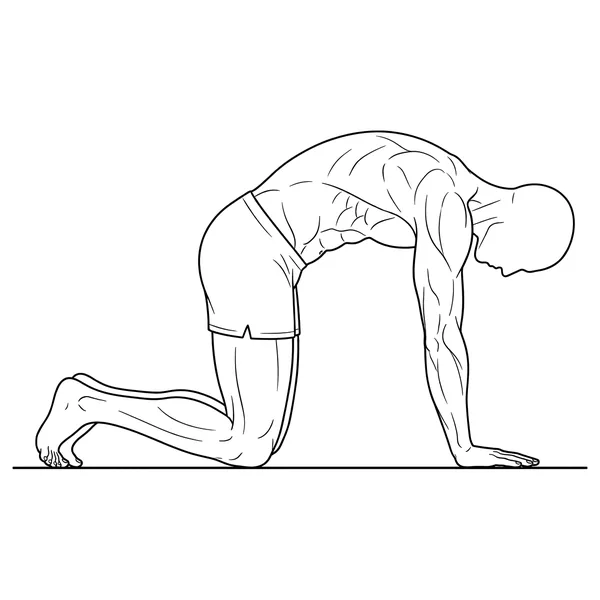
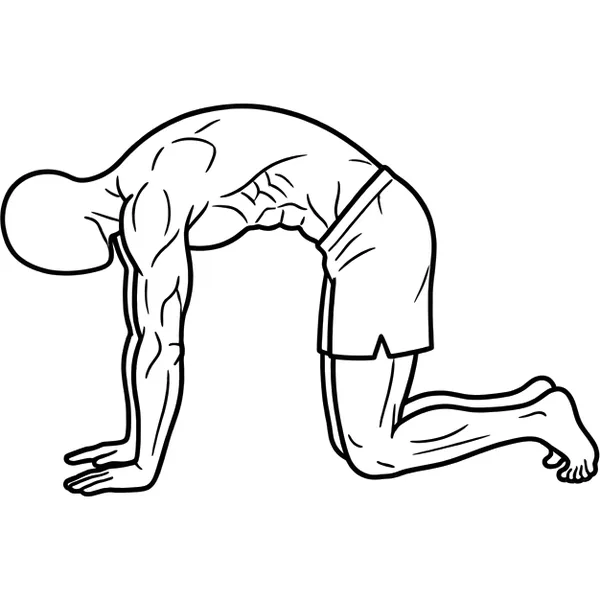
0.68.1: dibujos nuevos de las rutinas de estirar (gato-camello, Y-T-W, extension toracica en silla, cuello, CARs, psoas, apertura lateral)

diff --git a/web/sw.js b/web/sw.js
@@ -7,12 +7,12 @@
 // Solo se ocupa del CÓDIGO de la app. Los datos del usuario nunca pasan por
 // aquí: viven en el dispositivo (IndexedDB) y en su Google Drive.
 
-const VERSION = '0.68.0';
+const VERSION = '0.68.1';
 const CACHE = `entreno-${VERSION}`;
 // Las imágenes van en un almacén aparte que NO se borra al actualizar la app:
 // así se ven sin conexión aunque haya salido una versión nueva.
 // Si cambian las imágenes, se sube el número y los móviles bajan las nuevas.
-const CACHE_IMAGENES = 'entreno-imagenes-45';  // el mismo nombre en app.js (guardarImagenesParaSinConexion)
+const CACHE_IMAGENES = 'entreno-imagenes-46';  // el mismo nombre en app.js (guardarImagenesParaSinConexion)
 
 const ARCHIVOS = [
   './',

diff --git a/web/js/app.js b/web/js/app.js
@@ -239,7 +239,7 @@ async function guardarImagenesParaSinConexion() {
     const capas = Object.entries(MUSCULOS).flatMap(([clave, m]) => m.vistas.map((v) => archivoCapa(clave, v)));
     const cuerpo = ['imagenes/musculos/cuerpo-delante.svg', 'imagenes/musculos/cuerpo-detras.svg'];
     // El mismo nombre que CACHE_IMAGENES en sw.js: si no, el service worker lo borra.
-    const cache = await caches.open('entreno-imagenes-45');
+    const cache = await caches.open('entreno-imagenes-46');
     for (const ruta of [...cuerpo, ...capas, ...mios]) {
       if (!(await cache.match(ruta, { ignoreSearch: true }))) {
         const r = await fetch(ruta).catch(() => null);

diff --git a/web/js/version.js b/web/js/version.js
@@ -1,3 +1,3 @@
 // Versión del código de la app. Se sube en cada publicación y debe coincidir
 // con VERSION en sw.js, que es lo que hace que los móviles se actualicen.
-export const VERSION_APP = '0.68.0';
+export const VERSION_APP = '0.68.1';

diff --git a/CLAUDE.md b/CLAUDE.md
@@ -1478,3 +1478,13 @@ Encargo de la conversación de flexibilidad tras la prueba de Dan (notas en su T
 - «Hoy: 30 min:s» → «Hoy: 30 s» (`conUnidad`/`rangoConUnidad` en `lineaSugerenciaBase`).
 - OJO al editar con `python - <<'EOF'` desde la herramienta: «\b» y «\n» llegan como «\b» y «\n» (un retroceso o un
   salto de línea de verdad). Para reemplazos con barras, script en el scratchpad con Write.
+- 0.68.1: dibujos de sus rutinas de estirar (Gemini, todos con la cabeza lisa): gato-camello con la espalda muy redonda y muy
+  hundida y manos y rodillas quietas, Y-T-W de pie en bisagra de cadera, extensión torácica en silla (nuevo), flexión lateral
+  de cuello activa (la IA inclinaba las dos cabezas al mismo lado: la segunda figura es la primera en espejo), CARs de cadera
+  vistos desde atrás, psoas con la rodilla de atrás en el suelo sobre un cojín, apertura lateral moderada sobre un cojín e
+  isométrico de cuello hacia delante (nuevo, mano en la frente). «Isométricos de cuello» (ahora el lateral) usa el dibujo de
+  Everkinetic de la flexión lateral, y «hacia atrás», el que tenía antes. Lo de antes, en `imagenes-ia/antes-27-10/`; los
+  intentos malos, en `descartes/`. Para quitar orejas, lo que funciona: conversación NUEVA de Gemini con el dibujo adjunto y
+  «Haz un dibujo nuevo a partir de este, idéntico en todo… cambia SOLO las cabezas»; en la misma conversación se inventa otro
+  dibujo. La descarga más fiable: clic en la imagen (abre el editor) y su botón de descargar arriba a la derecha.
+  `creditos.json` se ajusta a mano tras procesar (el procesado deshace los cinco «-completo»). Almacén `entreno-imagenes-46`.
